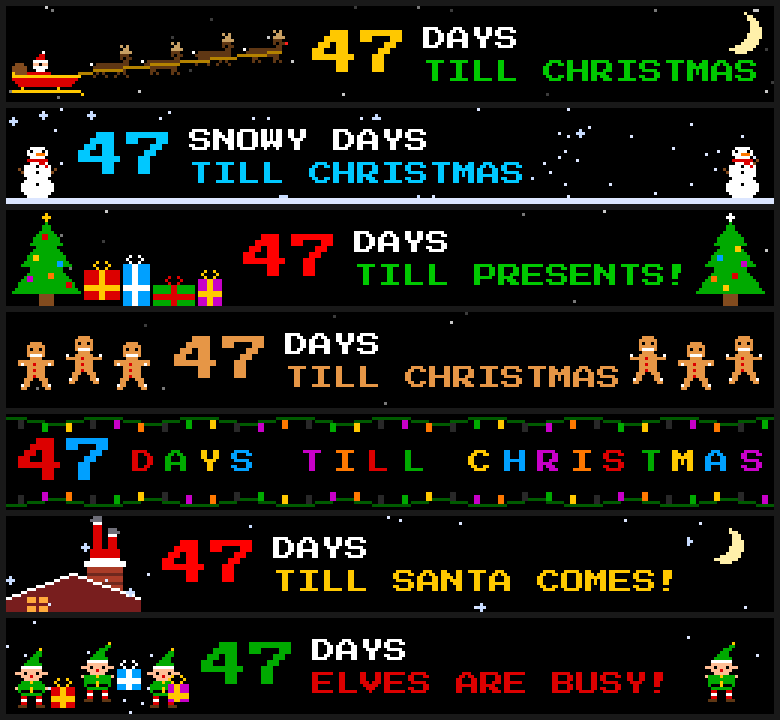
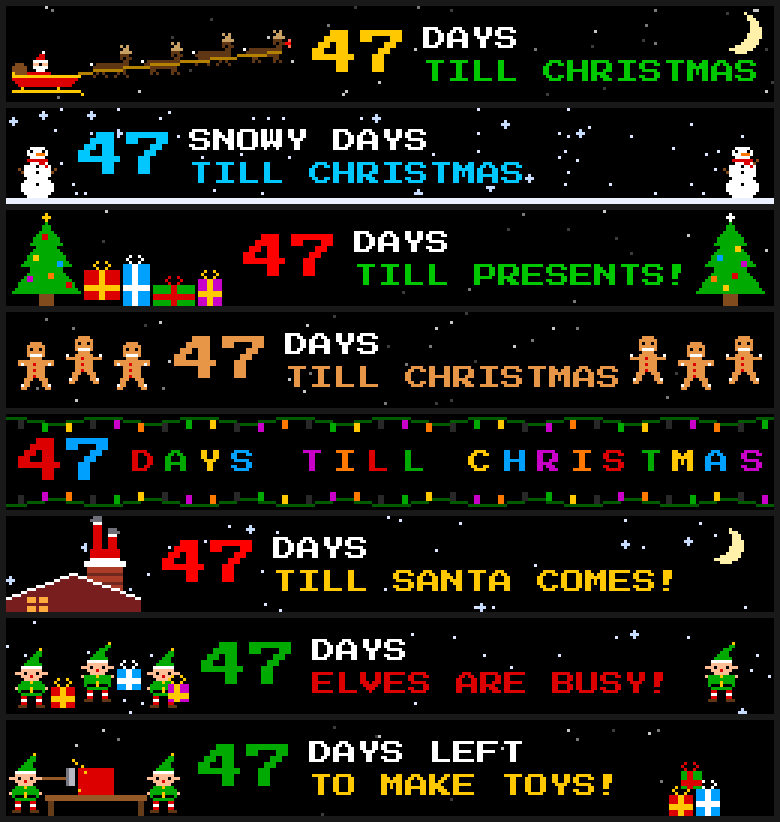
Santa's Countdown: snow across the whole card, a workshop, a brighter Rudolph.
The sky is drawn last and kept a pixel clear of every letter, so it covers
the full width instead of stopping at the words' cleared margin. The elf's
throw goes left to right only. New eighth scene: elves building a present
at their bench, with a hammer redrawn after the owner's note. Rudolph's
nose is two always-lit red pixels with a blinking glow. 259 checks.

diff --git a/santa_scenes.py b/santa_scenes.py
@@ -82,9 +82,9 @@ _DEER_TOP = [
     "..........T.T...",
     "...........TT...",
     "..........TTTT..",
-    "..........bbb...",
-    "..........bkbbN.",
-    "...........bb...",
+    "..........bbb..q",
+    "..........bkbbNN",
+    "...........bb..q",
     "W.bbbbbbbbbbb...",
     ".bbbbbbbbbbbb...",
     "..bbbbbbbbbb....",
@@ -208,8 +208,19 @@ def elf(pose: int) -> Image.Image:
     return sprite(ELF_HAT[pose % 2] + ELF_FACE + ELF_BODY[pose % 2] + ELF_LEGS)
 
 
-def reindeer(pose: int, nose: Tuple[int, int, int]) -> Image.Image:
-    return sprite(_DEER_TOP + DEER_LEGS[pose % 2], {"N": nose})
+RUDOLPH = (255, 0, 0)          # full red, always lit: a dim blink step vanished on the panel
+RUDOLPH_GLOW = (255, 110, 90)
+
+
+def reindeer(pose: int, rudolph: bool = False, glow: bool = False) -> Image.Image:
+    """A reindeer; Rudolph has a 2-pixel nose that is always lit, with a glow
+    above and below it that blinks."""
+    rows = _DEER_TOP + DEER_LEGS[pose % 2]
+    if not rudolph:
+        return sprite([r.replace("N", "k").replace("q", ".") for r in rows])
+    if not glow:
+        rows = [r.replace("q", ".") for r in rows]
+    return sprite(rows, {"N": RUDOLPH, "q": RUDOLPH_GLOW})
 
 
 def snowman(wave: int) -> Image.Image:
@@ -230,21 +241,37 @@ def gingerbread(pose: int) -> Image.Image:
 
 
 # ── texture: stars, snow ───────────────────────────────────────────────────
+# Drawn LAST, over the finished card, and only where the card is dark for a
+# pixel all round: so the sky fills the whole width, including between and
+# after the words, and never touches a letter or the art. (Drawn first, the
+# words' cleared margin wiped it from the words to the edge -- "some of the
+# snow was just on half the card", 2026-11-08.)
+def _clear_around(base, w: int, x: int, y: int) -> bool:
+    if not (0 <= x < w and 0 <= y < H):
+        return False
+    for yy in range(max(0, y - 1), min(H, y + 2)):
+        for xx in range(max(0, x - 1), min(w, x + 2)):
+            if base[xx, yy] != (0, 0, 0):
+                return False
+    return True
+
+
 def stars(img: Image.Image, n: int, seed: int, phase: int) -> None:
     rnd = random.Random(seed)
+    base = img.copy().load()
     px = img.load()
     w = img.width
     for i in range(n):
         x, y = rnd.randrange(w), rnd.randrange(H)
-        if px[x, y][:3] != (0, 0, 0):
-            continue
-        v = (60, 120, 200)[(i + phase) % 3]
-        px[x, y] = (v, v, v)
+        if _clear_around(base, w, x, y):
+            v = (60, 120, 200)[(i + phase) % 3]
+            px[x, y] = (v, v, v)
 
 
 def snow(img: Image.Image, n: int, seed: int, phase: int, floor: int = H) -> None:
     rnd = random.Random(seed)
-    d = ImageDraw.Draw(img)
+    base = img.copy().load()
+    px = img.load()
     w = img.width
     for _ in range(n):
         x0, y0 = rnd.randrange(w), rnd.randrange(floor)
@@ -253,9 +280,12 @@ def snow(img: Image.Image, n: int, seed: int, phase: int, floor: int = H) -> Non
         y = (y0 + phase * (2 if big else 1)) % floor
         x = (x0 + drift * (phase // 2)) % w
         if big:
-            d.point([(x, y), (x - 1, y), (x + 1, y), (x, y - 1), (x, y + 1)], fill=(200, 220, 255))
+            dots, colour = [(x, y), (x - 1, y), (x + 1, y), (x, y - 1), (x, y + 1)], (200, 220, 255)
         else:
-            d.point((x, y), fill=(220, 230, 255))
+            dots, colour = [(x, y)], (220, 230, 255)
+        for dx, dy in dots:
+            if _clear_around(base, w, dx, dy):
+                px[dx, dy] = colour
 
 
 # ── text ───────────────────────────────────────────────────────────────────
@@ -376,34 +406,33 @@ def scene_sleigh(days: int, phase: int, width: int) -> Image.Image:
         last = None
         for i in range(team):
             rudolph = i == team - 1
-            nose = (PAL["N"] if phase % 2 == 0 else PAL["n"]) if rudolph else PAL["k"]
             y = 13 - i * 2 + ((phase + i) % 2)
-            paste(img, reindeer(phase + i, nose), dx, y)
+            paste(img, reindeer(phase + i, rudolph, phase % 2 == 0), dx, y)
             last = (dx, y)
             dx += 17
         d = ImageDraw.Draw(img)
         d.line([(x + 22, sleigh_y + 7), (last[0] + 12, last[1] + 7)], fill=PAL["y"])
         right = dx
-    stars(img, width // 6, 1, phase)
     place_words(img, words, right, (GOLD, WHITE, GREEN))
     if width >= 192:  # the moon, after the words: their margin would bite it
         d = ImageDraw.Draw(img)
         d.ellipse([width - 18, 2, width - 5, 15], fill=(255, 240, 170))
         d.ellipse([width - 22, 0, width - 9, 13], fill=(0, 0, 0))
+    stars(img, width // 6, 1, phase)
     return img
 
 
 def scene_snowman(days: int, phase: int, width: int) -> Image.Image:
     img = Image.new("RGB", (width, H))
     words = Words(days, "SNOWY DAYS", "TILL CHRISTMAS")
-    snow(img, width // 4, 2, phase, floor=30)
     d = ImageDraw.Draw(img)
-    d.rectangle([0, 30, width - 1, 31], fill=(220, 230, 255))
+    d.rectangle([0, 30, width - 1, 31], fill=(235, 240, 255))    # the ground, not a snow colour
     paste(img, snowman(phase), 4, 10)
     right = 18
     place_words(img, words, right, ((0, 200, 255), WHITE, (0, 200, 255)))
     if width >= 192:
         paste(img, snowman(phase + 1), width - 17, 10)
+    snow(img, width // 4, 2, phase, floor=29)
     return img
 
 
@@ -447,10 +476,10 @@ def scene_presents(days: int, phase: int, width: int) -> Image.Image:
     for i, (w, h, box, rib) in enumerate(PRESENTS[:count]):
         _present(img, x, w, h, box, rib, 2 if phase % count == i else 0)
         x += w + 1
-    stars(img, width // 10, 3, phase)
     right = place_words(img, words, x, (RED, WHITE, GREEN))
     for tx in spare(img, right, 23):
         _tree(img, tx, phase + 1)
+    stars(img, width // 10, 3, phase)
     return img
 
 
@@ -463,11 +492,11 @@ def scene_gingerbread(days: int, phase: int, width: int) -> Image.Image:
         up = (phase + i) % 2
         paste(img, gingerbread(phase + i), x, 10 - 2 * up)
         x += 16
-    stars(img, width // 12, 4, phase)
     right = place_words(img, words, x - 2, (PAL["L"], WHITE, PAL["L"]))
     for j, gx in enumerate(spare(img, right, 12, count=3)):
         up = (phase + j + 1) % 2
         paste(img, gingerbread(phase + j + 1), gx, 10 - 2 * up)
+    stars(img, width // 6, 4, phase)
     return img
 
 
@@ -545,7 +574,6 @@ def scene_chimney(days: int, phase: int, width: int) -> Image.Image:
     d.rectangle([wx, 27, wx + 6, 31], fill=glow)
     d.line([(wx + 3, 27), (wx + 3, 31)], fill=(120, 30, 30))
     d.line([(wx, 29), (wx + 6, 29)], fill=(120, 30, 30))
-    snow(img, width // 8, 5, phase)
     d = ImageDraw.Draw(img)
     d.rectangle([cx - 1, 15, cx + 12, 16], fill=WHITE)          # snow on the rim
     _santa_legs(d, cx, phase)
@@ -554,6 +582,7 @@ def scene_chimney(days: int, phase: int, width: int) -> Image.Image:
         d = ImageDraw.Draw(img)
         d.ellipse([mx, 4, mx + 11, 15], fill=(255, 240, 170))
         d.ellipse([mx - 4, 2, mx + 7, 13], fill=(0, 0, 0))
+    snow(img, width // 6, 5, phase)
     return img
 
 
@@ -573,7 +602,6 @@ def scene_elves(days: int, phase: int, width: int) -> Image.Image:
             up = 8 if (phase + i) % 2 else 2
             _present(img, x, 8, 7, box, rib, up)
             x += 10
-    snow(img, width // 10, 6, phase)
     right = place_words(img, words, x, (PAL["G"], WHITE, PAL["R"]))
     spot = spare(img, right, 12)
     if spot:
@@ -581,23 +609,117 @@ def scene_elves(days: int, phase: int, width: int) -> Image.Image:
         hop = (phase + 1) % 2
         paste(img, elf(phase + 1), ex, 10 - 2 * hop)
         _throw(img, x - 2, ex - 3, phase)
+    snow(img, width // 8, 6, phase)
     return img
 
 
-THROW_STEPS = 8   # steps for one throw across the card; then it comes back
+THROW_STEPS = 8   # steps for one throw across the card; then the next present
 
 
 def _throw(img: Image.Image, left: int, right: int, phase: int) -> None:
     """A present thrown in a high arc from the left elves to the elf on the right,
-    over the words, and back again on the next throw."""
+    over the words. Always left to right: each throw is a new present, in the
+    next colour (the owner, 2026-11-08: "throw the package from the left to the
+    right elf")."""
     k = phase % THROW_STEPS
-    going = (phase // THROW_STEPS) % 2 == 0
     t = k / (THROW_STEPS - 1)
-    if not going:
-        t = 1 - t
+    box, rib = THROWN[(phase // THROW_STEPS) % len(THROWN)]
     x = int(round(left + (right - left) * t))
     lift = int(round(4 + 22 * math.sin(math.pi * t)))   # the present's bottom, rows up
-    _present(img, x - 3, 7, 6, PAL["P"], PAL["Y"], min(lift, H - 9))
+    _present(img, x - 3, 7, 6, box, rib, min(lift, H - 9))
+
+
+THROWN = ((PAL["P"], PAL["Y"]), (PAL["R"], WHITE), (PAL["C"], PAL["Y"]), (PAL["Y"], PAL["R"]))
+
+
+# ── the workshop: elves building a present, one step at a time ────────────
+BUILD_STEPS = 8   # bottom, sides, box, lid, ribbon down, ribbon across, bow, done
+WOOD, WOOD_DARK = (150, 90, 40), (100, 60, 25)
+HAMMER_HEAD = (150, 150, 160)
+BUILT = ((PAL["R"], PAL["Y"]), (PAL["C"], WHITE), (PAL["G"], PAL["R"]), (PAL["P"], PAL["Y"]))
+
+
+def _build(d: ImageDraw.ImageDraw, x: int, phase: int) -> None:
+    """The present on the bench, x..x+11, its bottom on row 24, as far along as
+    this step of the build."""
+    k = phase % BUILD_STEPS
+    box, rib = BUILT[(phase // BUILD_STEPS) % len(BUILT)]
+    w, full = 12, 9
+    h = (2, 5, full, full, full, full, full, full)[k]
+    top = 25 - h
+    d.rectangle([x, top, x + w - 1, 24], fill=box)
+    if k >= 3:                                   # the lid
+        lid = tuple(min(255, c + 70) for c in box)
+        d.rectangle([x - 1, top, x + w, top + 1], fill=lid)
+    cx = x + w // 2
+    if k >= 4:                                   # ribbon down
+        d.rectangle([cx - 1, top, cx, 24], fill=rib)
+    if k >= 5:                                   # ribbon across
+        d.rectangle([x, top + 4, x + w - 1, top + 5], fill=rib)
+    if k >= 6:                                   # the bow
+        d.point([(cx - 3, top - 2), (cx - 2, top - 1), (cx + 2, top - 2), (cx + 1, top - 1),
+                 (cx - 2, top - 3), (cx + 1, top - 3), (cx - 1, top - 1), (cx, top - 1)], fill=rib)
+    if k == 7:                                   # done: it sparkles
+        d.point([(x - 3, top - 2), (x + w + 2, top - 1), (x - 2, top + 4),
+                 (x + w + 3, top + 5), (cx, top - 6)], fill=WHITE)
+
+
+def _hammer(d: ImageDraw.ImageDraw, phase: int, box_x: int, box_top: int) -> None:
+    """The left elf's hammer: raised over his shoulder on one step, and on the
+    next swung level into the side of the box, sparks flying where it lands."""
+    steel, steel_dark = (185, 185, 195), (120, 120, 130)
+    if phase % 2:
+        # raised: hands up at row 22, the handle tilted back, the head on top
+        d.line([(11, 21), (14, 15)], fill=WOOD)
+        d.line([(12, 21), (15, 15)], fill=WOOD_DARK)
+        d.rectangle([12, 12, 18, 14], fill=steel)
+        d.rectangle([12, 14, 18, 14], fill=steel_dark)
+    else:
+        # striking: hands down at row 24, the handle level, the head on the box
+        y = min(max(box_top + 1, 18), 21)     # above the bench (row 25), even for a low box
+        d.line([(12, y + 1), (box_x - 5, y + 1)], fill=WOOD)
+        d.rectangle([box_x - 4, y - 2, box_x - 2, y + 3], fill=steel)
+        d.rectangle([box_x - 4, y - 2, box_x - 4, y + 3], fill=steel_dark)
+        d.point([(box_x - 1, y - 4), (box_x + 1, y - 3), (box_x - 2, y - 5),
+                 (box_x, y + 5), (box_x + 2, y - 1)], fill=PAL["Y"])
+
+
+def scene_workshop(days: int, phase: int, width: int) -> Image.Image:
+    img = Image.new("RGB", (width, H))
+    words = Words(days, "DAYS LEFT", "TO MAKE TOYS!")
+    d = ImageDraw.Draw(img)
+    k = phase % BUILD_STEPS
+    # the bench
+    d.rectangle([13, 25, 46, 26], fill=WOOD)
+    d.rectangle([14, 27, 15, 31], fill=WOOD_DARK)
+    d.rectangle([44, 27, 45, 31], fill=WOOD_DARK)
+    box_x = 24
+    _build(d, box_x, phase)
+    # the hammering elf on the left: busy while the box goes together
+    hammering = k < 4
+    paste(img, elf(1 if (hammering and phase % 2) or k == 7 else 0), 1, 11 - (2 if k == 7 else 0))
+    if hammering:
+        h = (2, 5, 9, 9)[k]
+        _hammer(d, phase, box_x, 25 - h)
+    # the wrapping elf on the right: hands up while the ribbon and bow go on,
+    # and both hop when it is done
+    wrapping = 4 <= k <= 6
+    hop = 2 if k == 7 else 0
+    paste(img, elf(1 if wrapping or k == 7 else 0), 47, 11 - hop)
+    if wrapping:
+        # the ribbon runs from the wrapping elf's raised hand to the box
+        _, rib = BUILT[(phase // BUILD_STEPS) % len(BUILT)]
+        d.line([(47, 22), (box_x + 12, 18 + (phase % 2) * 2)], fill=rib)
+    right = place_words(img, words, 58, (PAL["G"], WHITE, GOLD))
+    # finished presents piling up on the right, when there is room
+    pile = spare(img, right, 18)
+    if pile:
+        px = pile[0]
+        _present(img, px, 8, 7, PAL["R"], PAL["Y"], 0)
+        _present(img, px + 9, 8, 9, PAL["C"], WHITE, 0)
+        _present(img, px + 4, 7, 6, PAL["G"], PAL["R"], 9)
+    stars(img, width // 10, 7, phase)
+    return img
 
 
 SCENES: Dict[str, Callable[[int, int, int], Image.Image]] = {
@@ -608,6 +730,7 @@ SCENES: Dict[str, Callable[[int, int, int], Image.Image]] = {
     "lights": scene_lights,
     "chimney": scene_chimney,
     "elves": scene_elves,
+    "workshop": scene_workshop,
 }
 
 

diff --git a/manager.py b/manager.py
@@ -3,7 +3,8 @@ Santa's Countdown for LEDMatrix
 
 An animated countdown to Christmas for kids: Santa's sleigh and reindeer,
 a waving snowman, bouncing presents, dancing gingerbread men, chasing
-lights, Santa's boots kicking in a chimney and elves tossing presents. A different scene each time
+lights, Santa kicking his legs in a chimney, elves throwing presents and
+elves building one in their workshop. A different scene each time
 the plugin comes round.
 
 - Normal rotation: display() is called repeatedly and animates at

diff --git a/README.md b/README.md
@@ -5,21 +5,22 @@
 An animated countdown to Christmas for [LEDMatrix](https://github.com/ChuckBuilds/LEDMatrix),
 made for kids. Every time it comes round it shows a different scene, and every scene moves.
 
-![All seven scenes, animated](docs/preview.gif)
+![All eight scenes, animated](docs/preview.gif)
 
 ## The scenes
 
-![Sleigh, snowman, presents, gingerbread, lights, chimney, elves](docs/scenes.png)
+![Sleigh, snowman, presents, gingerbread, lights, chimney, elves, workshop](docs/scenes.png)
 
 | Scene | What moves |
 | --- | --- |
-| `sleigh` | Santa and four reindeer fly by. The legs gallop, the team bobs, and Rudolph's nose blinks. |
+| `sleigh` | Santa and four reindeer fly by. The legs gallop, the team bobs, and Rudolph's bright red nose glows. |
 | `snowman` | Snow falls and two snowmen wave. |
 | `presents` | Two trees with blinking ornaments and twinkling stars, and the presents take turns bouncing. |
 | `gingerbread` | Six gingerbread men dance, three on each side. |
 | `lights` | Strings of bulbs chase along the top and bottom, the number flashes colours, and the words stretch the width of the card, every letter flashing. |
 | `chimney` | Santa is stuck in the chimney with his legs in the air, kicking in turn, while snow falls and the window flickers. |
-| `elves` | The elves hop and toss presents, and one throws a present in a high arc across the whole card to the elf on the other side, and back. |
+| `elves` | The elves hop and toss presents, and one throws a present in a high arc across the whole card to the elf on the other side -- a new present, in a new colour, every throw. |
+| `workshop` | Elves build a present at their bench, one step at a time: one hammers the box together, the other ties on the ribbon and bow, it sparkles when it is done, and the next one starts. |
 
 Each one shows the days left (`47 DAYS TILL CHRISTMAS`), `1 DAY` on Christmas Eve and
 `MERRY CHRISTMAS!` on the day itself.
@@ -33,7 +34,7 @@ There are no image files: all the art is in `santa_scenes.py`.
 | --- | --- | --- |
 | `enabled` | `false` | Show it. |
 | `display_duration` | `15` | Seconds on screen in normal rotation. |
-| `scenes` | all seven | Which scenes to show. |
+| `scenes` | all eight | Which scenes to show. |
 | `order` | `in_turn` | `in_turn` goes through them one after another; `random` picks a different one each time, never the one just shown. |
 | `season_start` | `11-01` | Month-day to start showing. It stays up through Christmas Day and shows nothing the rest of the year, so it can stay enabled all year. |
 | `animation_fps` | `6` | Animation steps per second in normal rotation. |

diff --git a/CHANGELOG.md b/CHANGELOG.md
@@ -4,12 +4,15 @@
 
 First release.
 
-- Seven animated scenes, all drawn in code: Santa's sleigh and four reindeer
-  (Rudolph's nose blinks, the legs gallop), two waving snowmen in falling
+- Eight animated scenes, all drawn in code: Santa's sleigh and four reindeer
+  (Rudolph's nose glows, the legs gallop), two waving snowmen in falling
   snow, trees with blinking ornaments and bouncing presents, six dancing
   gingerbread men, strings of chasing lights top and bottom with flashing
-  letters, Santa stuck in a chimney kicking his legs, and elves who throw a
-  present across the whole card.
+  letters, Santa stuck in a chimney kicking his legs, elves who throw a
+  present across the whole card, and elves building a present in their
+  workshop.
+- Snow and stars fill the whole card, drawn last and kept a pixel clear of
+  every letter and every character.
 - Every scene fills the card: whatever room the words leave on the right gets
   a second tree, more dancers, the moon or another elf.
 - The days left until Christmas in big digits, `1 DAY` on Christmas Eve and
